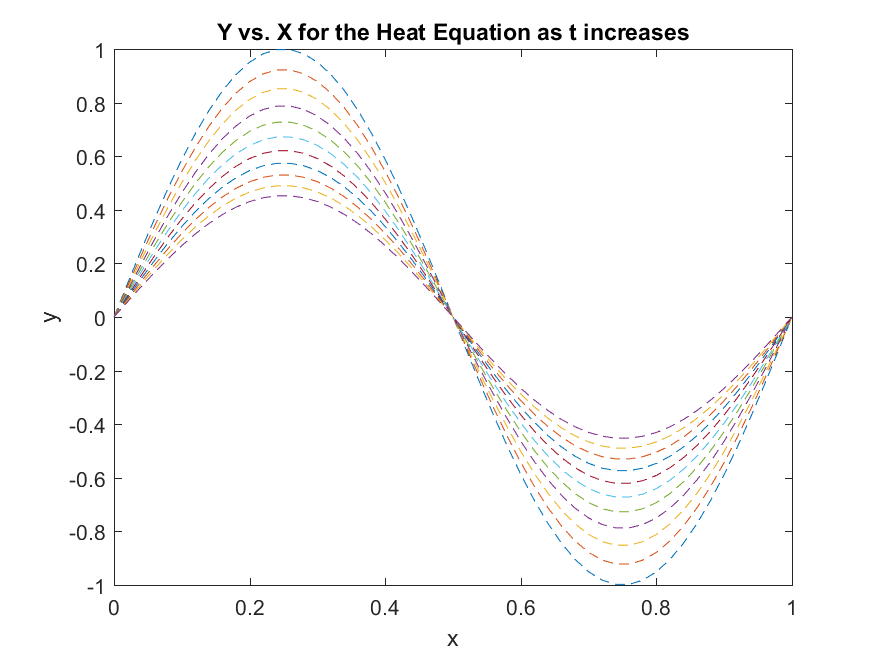
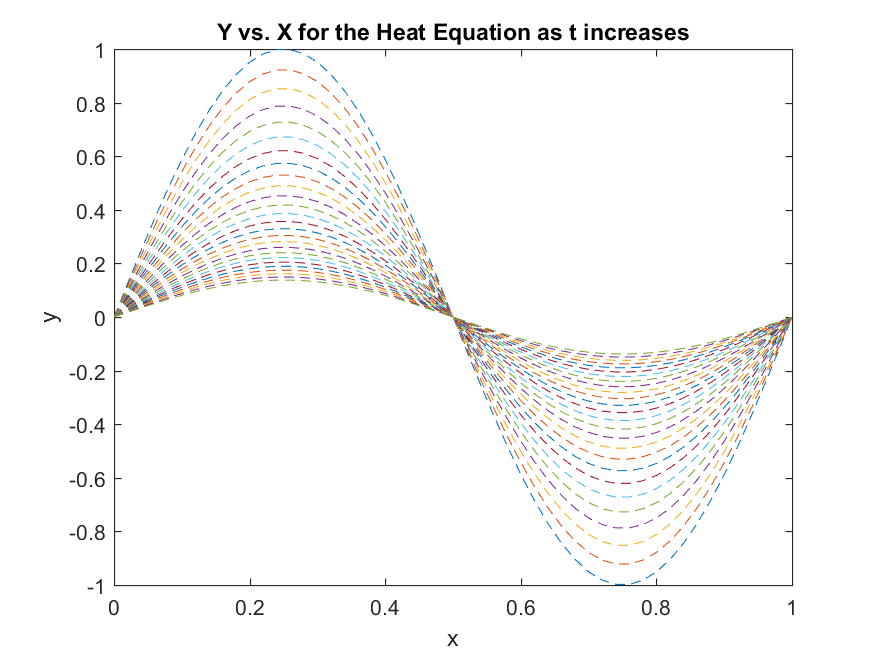
Added a surface plot.

diff --git a/ex4/finite_script.m b/ex4/finite_script.m
@@ -6,9 +6,9 @@ h = (xf-x0)/nx; %calculte the x step size
 u0 = 0; %set boundary conditions at x0, xf
 uf = 0;
 
-nk = 100; %define the number of time steps
+nk = 250; %define the number of time steps
 t0 = 0;
-tf = 0.02;
+tf = 0.05;
 k = (tf-t0)/nk; %calc the difference between each time step
 ta = t0:k:tf; %define t array
 
@@ -23,8 +23,13 @@ U = zeros(size(xa,2),size(ta,2)); %define matrix U for y at every t and x
 
 %% Define the Initial Conditions (uncomment, change file name at the bottom)
 %y0 = @tent; %set y0 as the tent function
-%y0 = @(x) sin(2*pi*x);
-y0 = @(x) abs(sin(2*pi*x));
+y0 = @(x) sin(2*pi*x); %y0 as the sine function
+%y0 = @(x) abs(sin(2*pi*x)); %absolute value of sine function
+
+%OPTIONAL INITIAL CONDITIONS BELOW
+%y0 = @(x) cos(pi*x);
+
+
 
 %set initial values of x at t = 0
 for j = 1:nx+1
@@ -54,3 +59,7 @@ title('Y vs. X for the Heat Equation as t increases')
 xlabel('x')
 ylabel('y')
 print('plots\Sine','-dpng'); %print to file
+
+figure;
+surf(ta,xa,U); 
+hold on;
